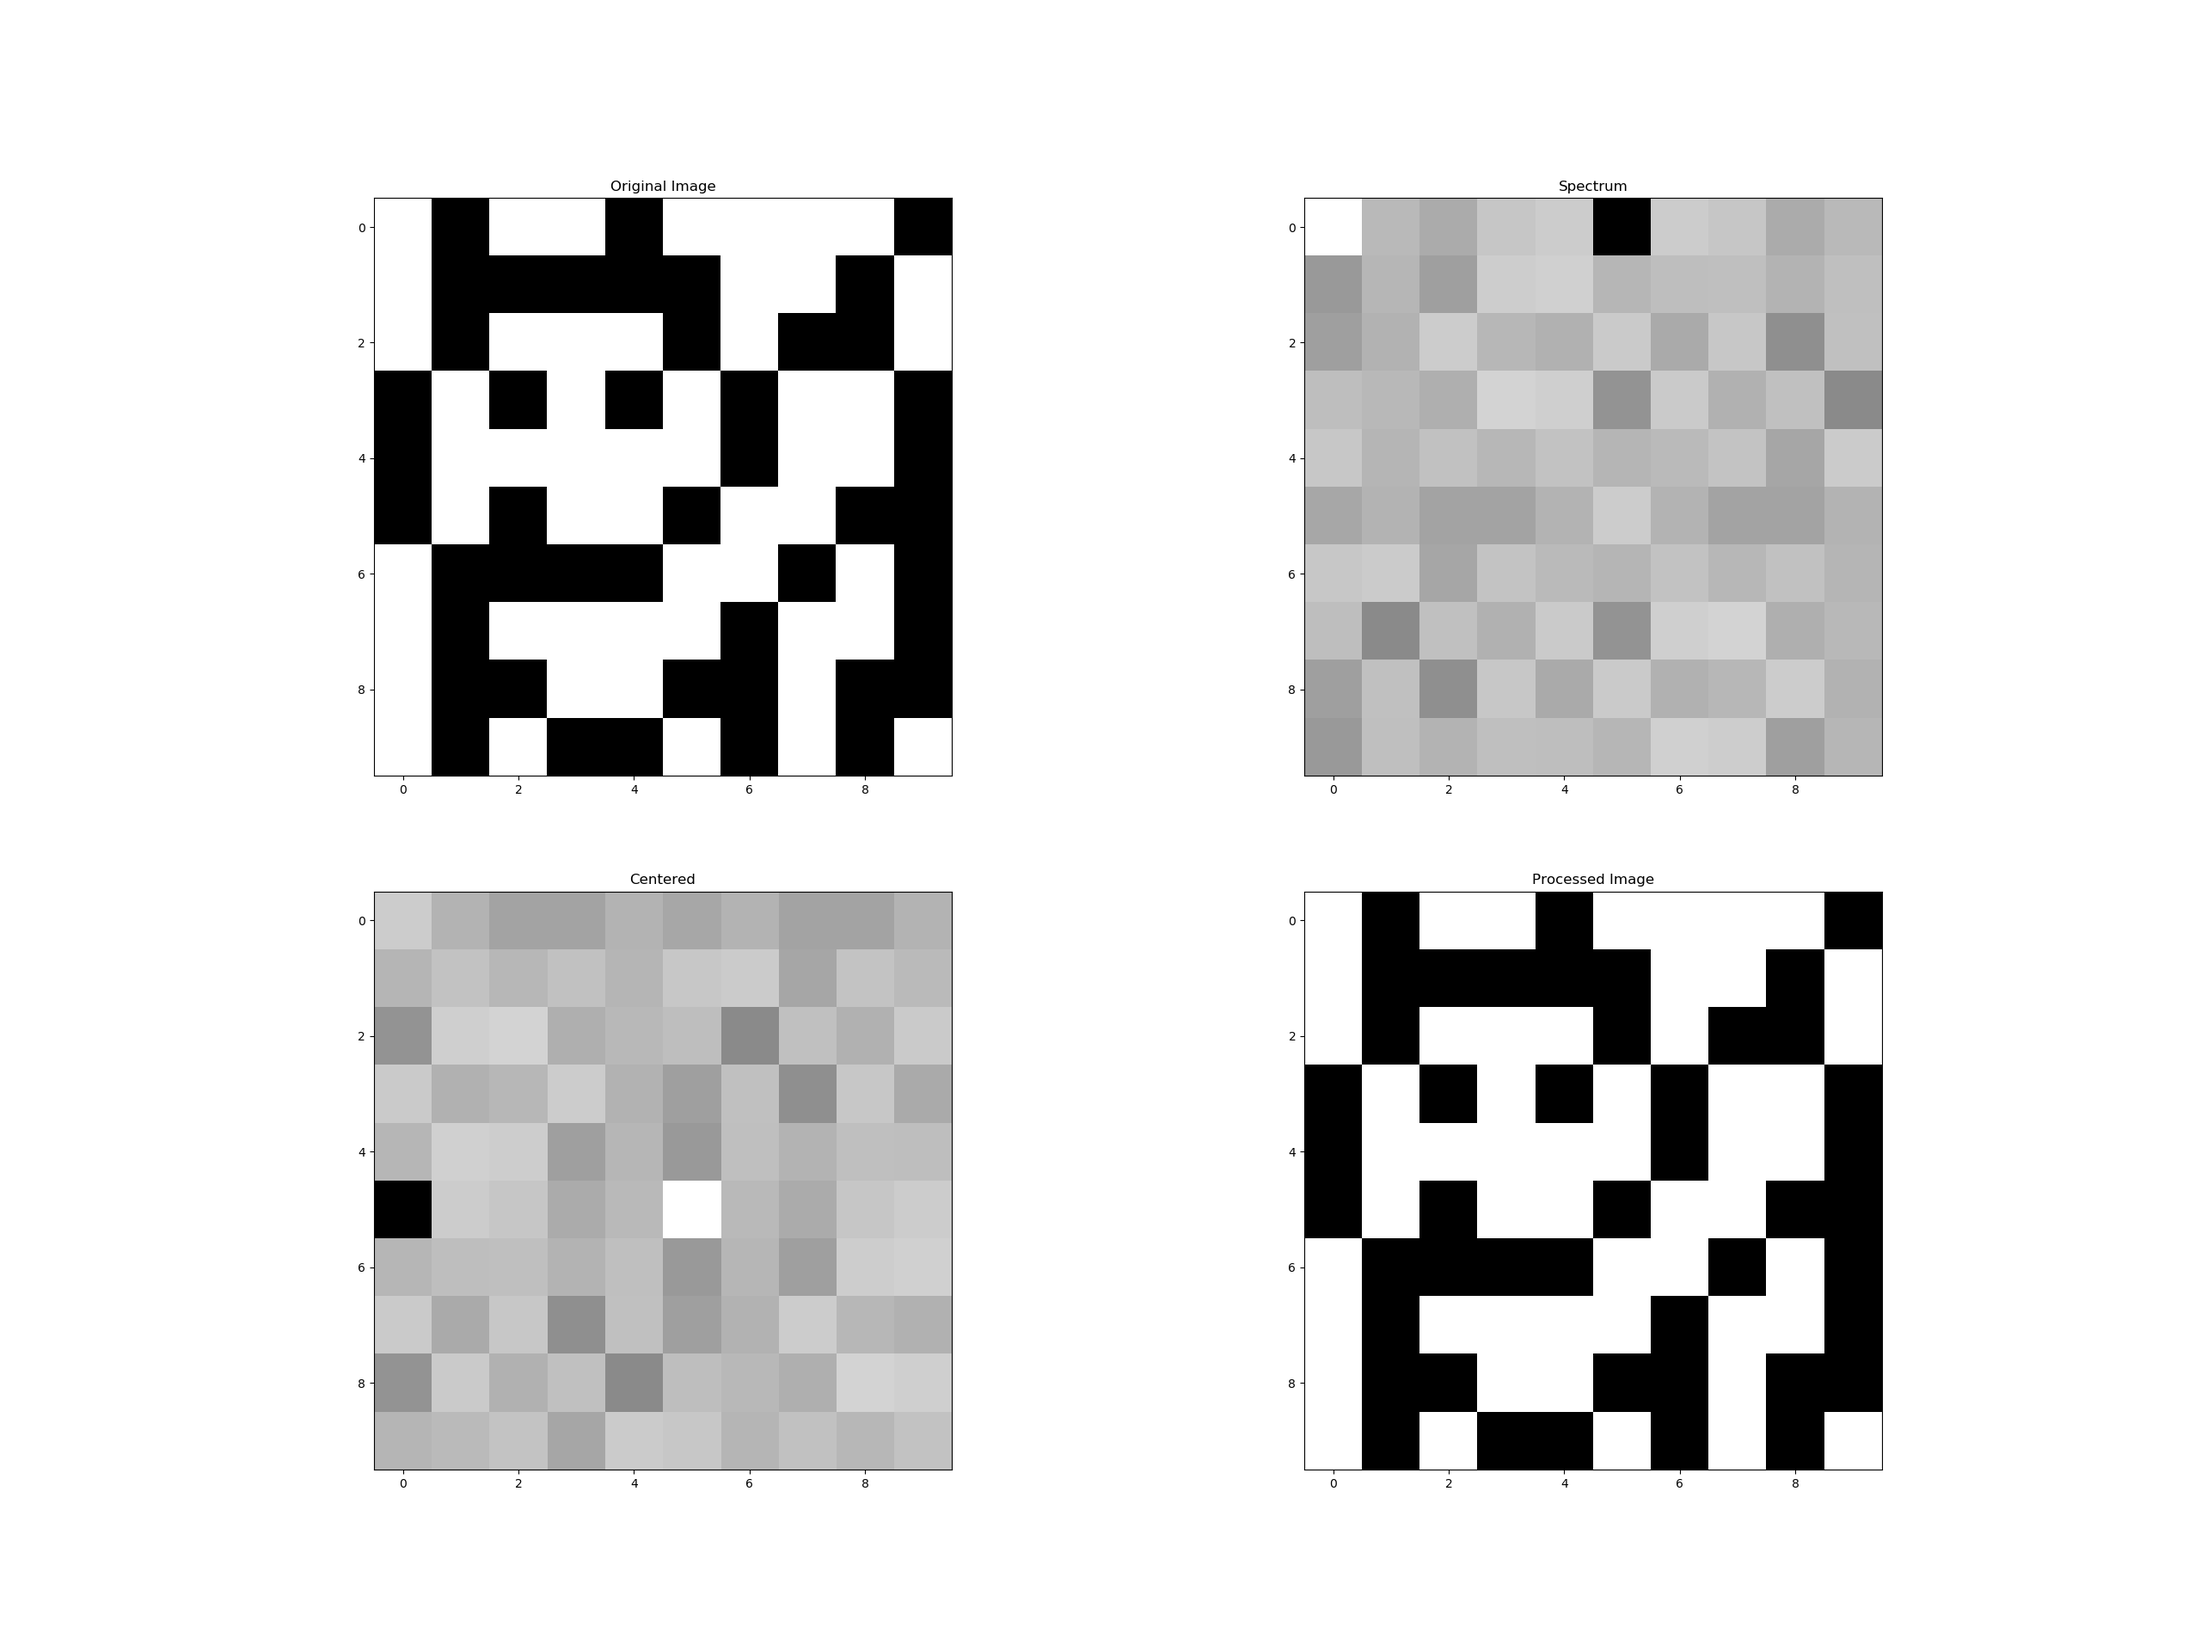
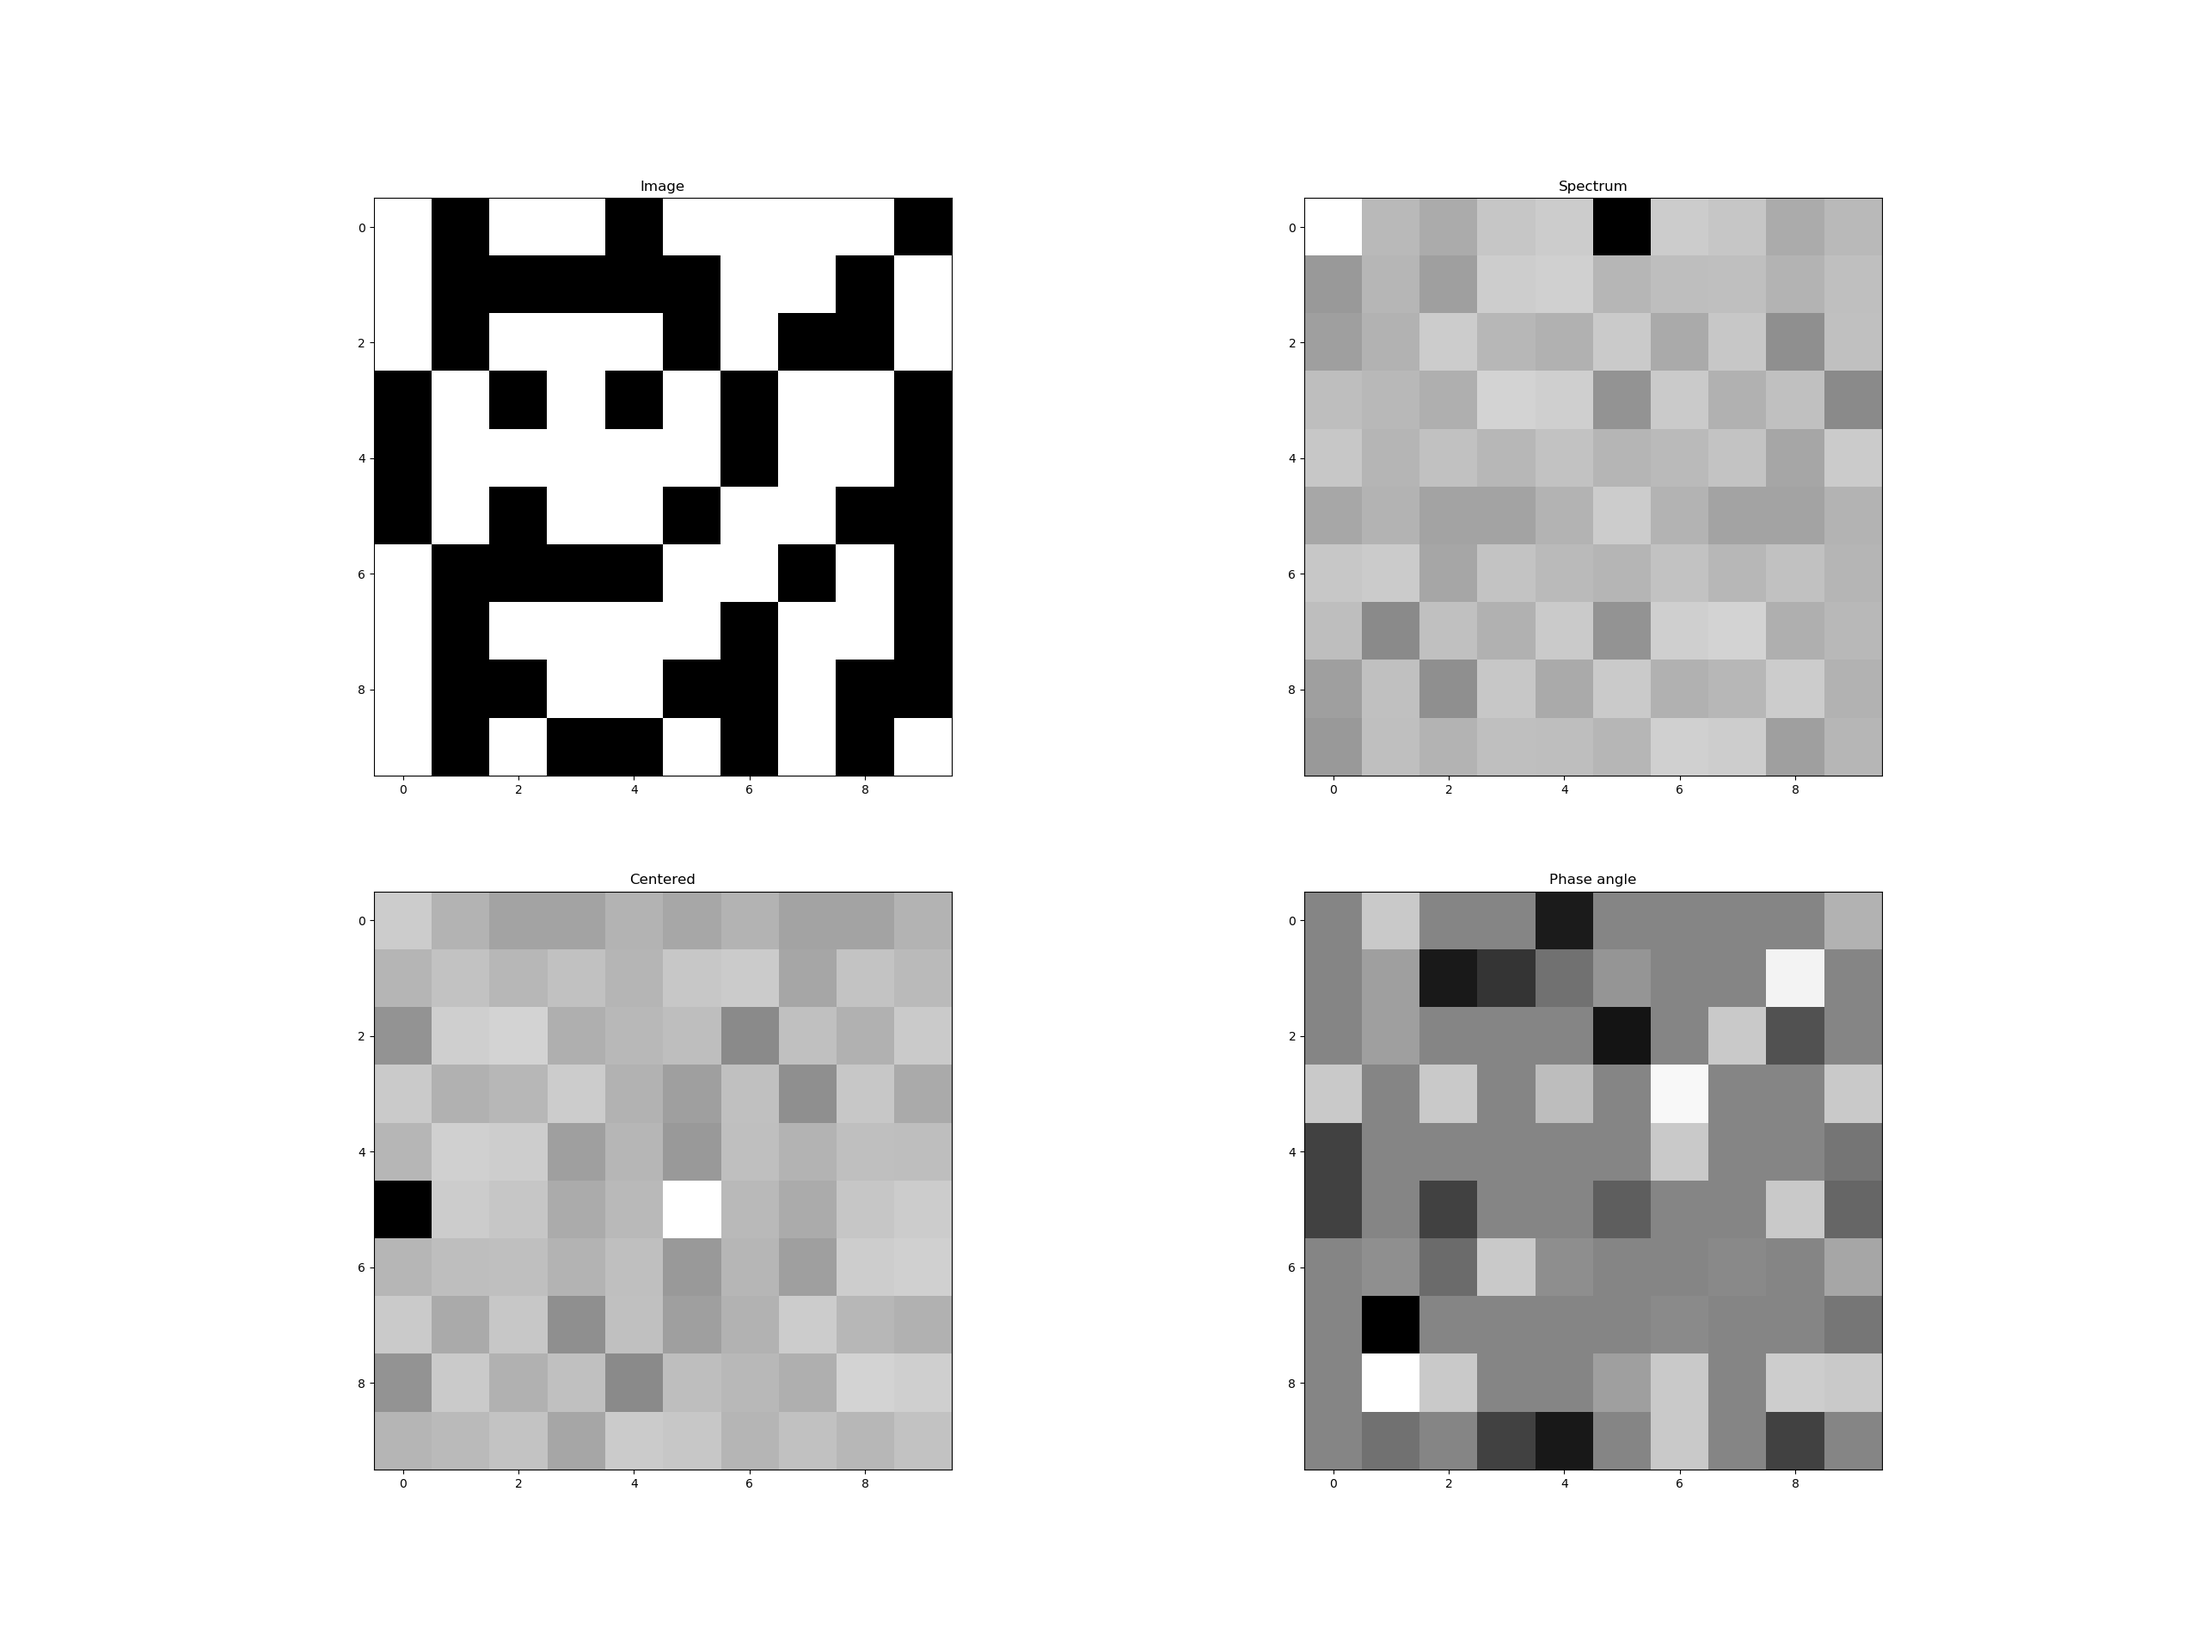
final tweaks

Changed region(s): [[0.5938, 0.5312, 0.875, 0.9062]]

diff --git a/fourrier.py b/fourrier.py
@@ -14,10 +14,10 @@ def showFourrierSpectrum(filePath, fileName):
     img_c3 = np.fft.fftshift(img_c2)
     img_c4 = np.fft.ifft2(img_c2)
 
-    plt.subplot(221), plt.imshow(img_c1, "gray"), plt.title("Original Image")
+    plt.subplot(221), plt.imshow(img_c1, "gray"), plt.title("Image")
     plt.subplot(222), plt.imshow(20*np.log(1+np.abs(img_c2)), "gray"), plt.title("Spectrum")
     plt.subplot(223), plt.imshow(20*np.log(1+np.abs(img_c3)), "gray"), plt.title("Centered")
-    plt.subplot(224), plt.imshow(np.abs(img_c4), "gray"), plt.title("Processed Image")
+    plt.subplot(224), plt.imshow(np.angle(img_c4), "gray"), plt.title("Phase angle")
 
     plt.savefig("figures/" + fileName)
     plt.show()
